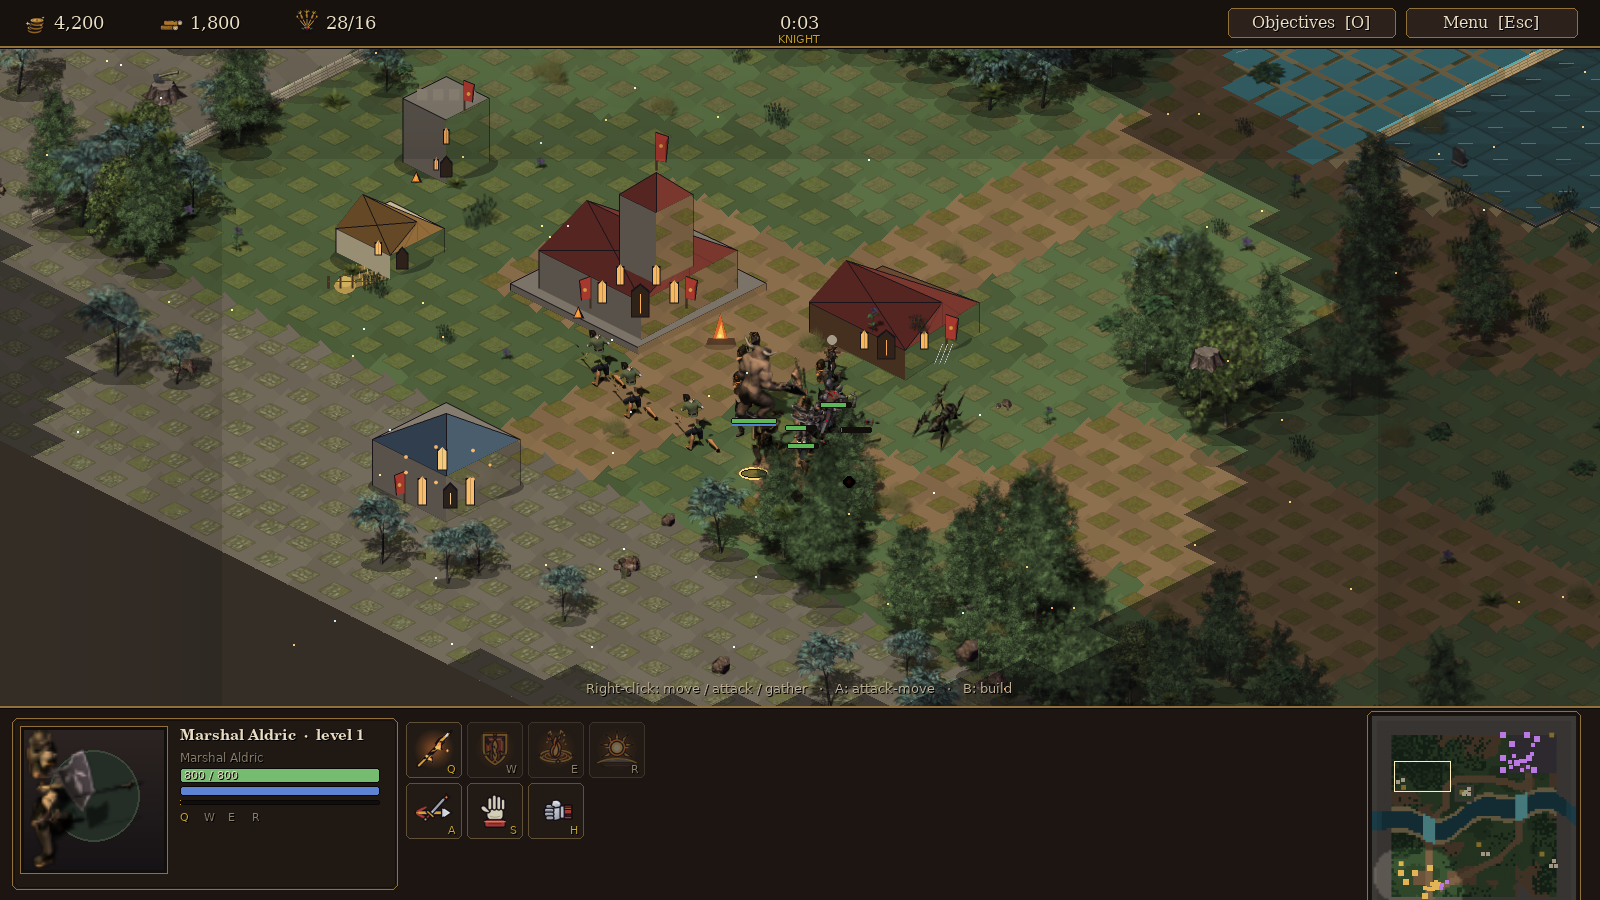
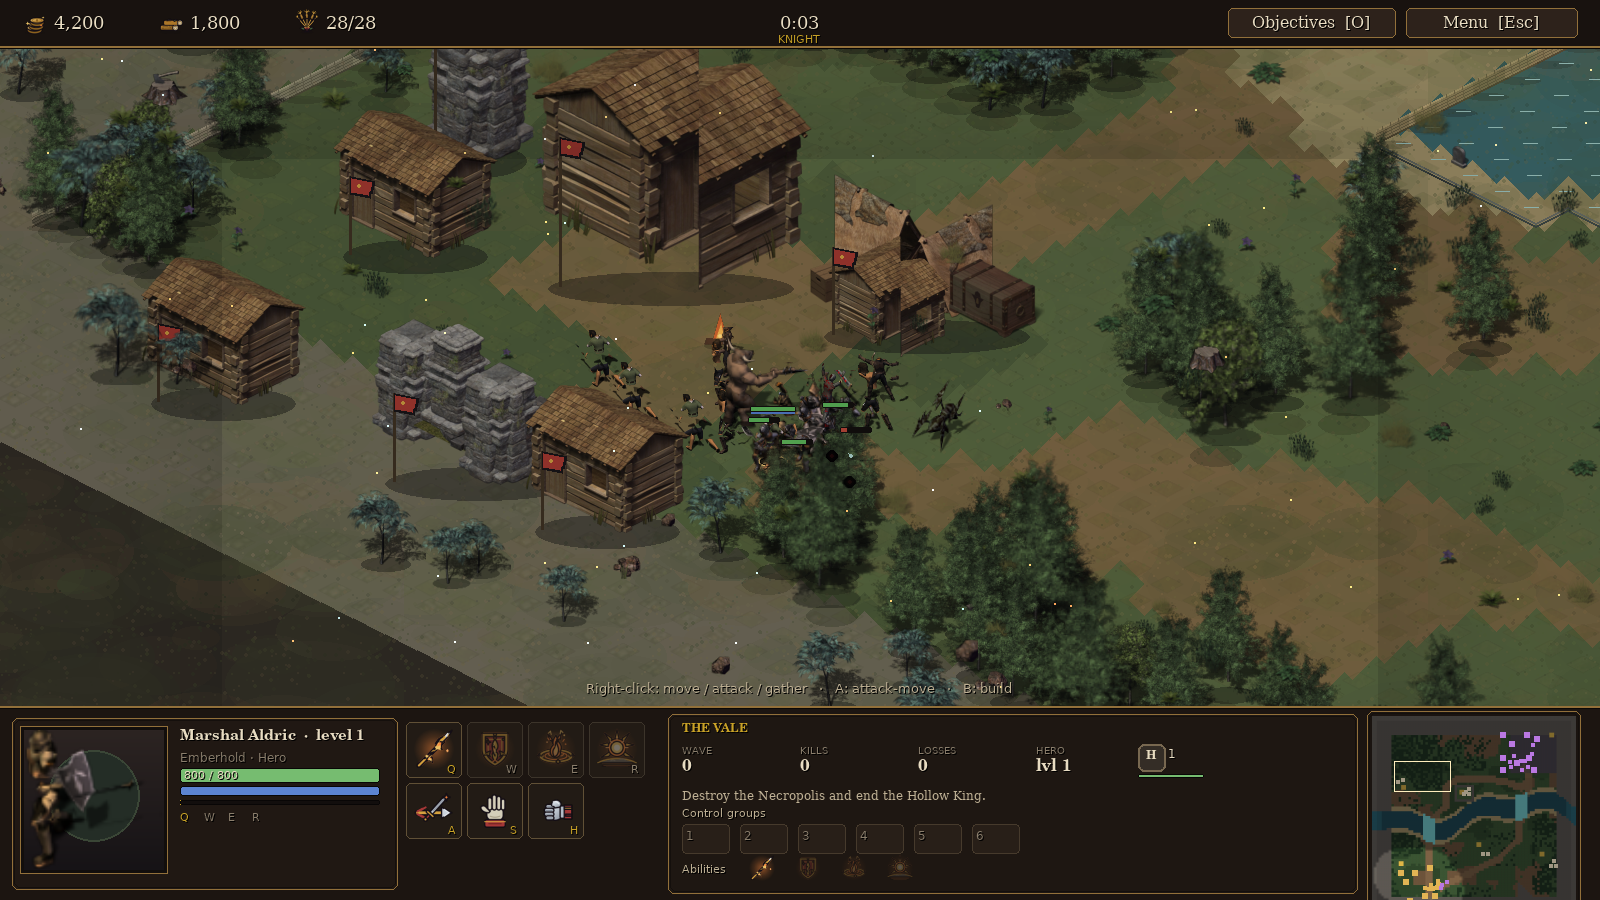
Beta polish: clean fords, readable alerts, fog veil, control groups, HUD center panel
- Removed the per-tile ford overlay that read as a cyan lattice
- Uniform fog veil + opaque unexplored (no diamond seams)
- Prop culling and cached minimap/fog; 60fps at base
- Center command/status panel, control-group hotkeys, subtitle fixes
- Flare building compositions wired for both factions; siege/defeat scenes
- Final QA screenshots and launchable beta

diff --git a/emberfall/src/render.py b/emberfall/src/render.py
@@ -273,9 +273,8 @@ class Renderer:
         sx0 = clamp(vx, 0, self.MW); sy0 = clamp(vy, 0, self.MH)
         r = pygame.Rect(sx0, sy0, min(SCREEN_W, self.MW - sx0), min(SCREEN_H, self.MH - sy0))
         screen.blit(self.surface, (0, 0), r)
-        # water shimmer + readable fords
+        # water shimmer (fords are read from sand banks + stepping stones)
         self._draw_water(screen, cam, time)
-        self._draw_fords(screen, cam, time)
         # selection ground markers
         self._draw_ground_markers(screen, game, cam, time)
         # gather drawables, culled to the camera's tile neighbourhood

diff --git a/emberfall/src/app.py b/emberfall/src/app.py
@@ -542,8 +542,8 @@ class Game:
             self.fullscreen = not self.fullscreen
             pygame.display.set_mode((SCREEN_W, SCREEN_H), pygame.FULLSCREEN if self.fullscreen else 0)
             return
-        if k in range(pygame.K_1, pygame.K_0 + 1):
-            num = (k - pygame.K_1 + 1) % 10
+        if pygame.K_1 <= k <= pygame.K_9:
+            num = k - pygame.K_0
             if mods & pygame.KMOD_CTRL:
                 self.control_groups[num] = list(self.selection)
             else:

diff --git a/emberfall/src/ui.py b/emberfall/src/ui.py
@@ -315,7 +315,7 @@ class UI:
         # alerts
         y = 58
         for a in w._alerts[-3:]:
-            alpha = int(255 * min(1.0, a["t"] / 0.8))
+            alpha = max(110, int(255 * min(1.0, a["t"] / 0.8)))
             txt = self.t(a["text"], 15, PARCH, "serif")
             pad = 12
             rr = pygame.Rect(SCREEN_W // 2 - txt.get_width() // 2 - pad, y, txt.get_width() + pad * 2, txt.get_height() + 6)
